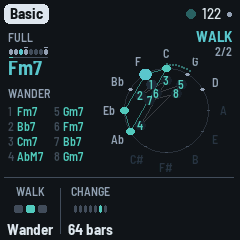
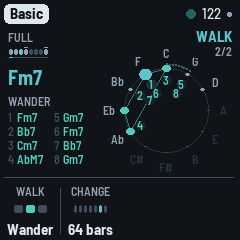
1.4.0: the Walk page lighter (the user's: too crowded): the roots' trail and the slots' joining lines gone, the slots numbered alone; the chord's name lower, clear of the section's bars; the manual, its screenshot

Changed region(s): [[0.0292, 0.2333, 0.35, 0.7], [0.5833, 0.35, 0.7292, 0.525], [0.6125, 0.35, 0.6417, 0.3792]]

diff --git a/firmware/src/app/ui.c b/firmware/src/app/ui.c
@@ -3835,17 +3835,15 @@ static uint32_t where_sig(uint32_t h)            /* (what they show, for a redra
  * save on one comes back on the ripples: ui_screen_ok) */
 static int scr_small_chord(int s) { return s != SCR_RIPPLES; }   /* (the chord small, at the top) */
 
-/* (1.4.0, the user's) the Walk page's picture: the circle of fifths (C at the top, a fifth a step clockwise), the
+/* (1.4.0, the user's) the Walk page's picture (the chord's name under the section's bars, clear of them): the circle of fifths (C at the top, a fifth a step clockwise), the
  * notes named round it, the key's bright, the rest faint; the chord's notes lit and joined (its shape), its root the
- * biggest, white with the kick; the walk's last roots a trail fading behind it; inside, the eight slots as a numbered
- * path (each at its chord's root, joined in their order; the one playing lit in Loop; a gap left out: the chord before
+ * biggest, white with the kick (1.4.0, the user's: no trail of the roots before: too crowded); inside, the eight slots numbered
+ * (each at its chord's root, not joined: the user's, too crowded; the one playing lit in Loop; a gap left out: the chord before
  * it holds); round the outside, the way to the next chord (Change). At the left, out of the circle's way: the chord's
  * name, the walk's character (or Loop and where it is), and the slots in order, the one playing lit */
-#define FQ_N 6
 #define WK_X 166
 #define WK_Y 82
 #define WK_R 42
-static uint8_t fq_root[FQ_N], fq_n;
 static void fq_xy(int pc, int32_t r, int32_t *x, int32_t *y)
 {
     const float a = (float)((pc * 7) % 12) * (6.2831853f / 12.0f) - 1.5707963f;
@@ -3860,8 +3858,6 @@ static void draw_walk(void)
     const float kg = en_playing ? en_drum_glow[0] : 0.0f;
     const uint16_t chc = en_frozen ? K_FROST : K_PAD;
     char nm[16];
-    if (!fq_n || fq_root[(fq_n - 1) % FQ_N] != en_chord_root)   /* (a new root: onto the trail) */
-        fq_root[fq_n % FQ_N] = en_chord_root, fq_n++;
     for (i = 0; i < ns; i++)
         inkey[(proj.par[P_ROOT] + steps[i]) % 12] = 1;
     circle(WK_X, WK_Y, WK_R, mix(K_BG, K_LINE, 9));   /* the circle */
@@ -3891,26 +3887,6 @@ static void draw_walk(void)
             ring[rr]++;
         }
         sr[i] = rr;
-    }
-    {   /* the path: the slots joined in their order (in Loop, round back to the first) */
-        int first = -1, prev = -1;
-        for (i = 0; i < EN_NPROG; i++) {
-            if (sr[i] < 0)
-                continue;
-            if (prev >= 0)
-                line(sx[prev], sy[prev], sx[i], sy[i], mix(K_BG, K_DIM, 5));
-            else
-                first = i;
-            prev = i;
-        }
-        if (loop && first >= 0 && prev != first)
-            line(sx[prev], sy[prev], sx[first], sy[first], mix(K_BG, K_DIM, 3));
-    }
-    for (i = 1; i < FQ_N && i < (int)fq_n; i++) {   /* the trail: the roots before, older dimmer */
-        const int a = (int)(fq_n - 1u - (unsigned)i), b = a + 1;
-        fq_xy(fq_root[a % FQ_N], WK_R, &x0, &y0);
-        fq_xy(fq_root[b % FQ_N], WK_R, &x, &y);
-        line(x0, y0, x, y, mix(K_BG, K_ACC, 10 - 2 * i > 1 ? 10 - 2 * i : 1));
     }
     for (i = 0; i < EN_NPAD; i++) {               /* the chord: its notes in fifths order, joined round */
         const int pc = en_chord[i] % 12;
@@ -3944,25 +3920,25 @@ static void draw_walk(void)
     }
     chord_now(nm);                                /* at the left: the chord, how it moves, the slots in order */
     if (text_w(&FONT_C, nm) <= 92)
-        cv_text(8, 30, &FONT_C, nm, en_frozen ? K_FROST : mix(K_TEXT, K_ACC, 16 - q16(kg * 1.4f)));
+        cv_text(8, 40, &FONT_C, nm, en_frozen ? K_FROST : mix(K_TEXT, K_ACC, 16 - q16(kg * 1.4f)));
     else
-        cv_text(8, 34, &FONT_B, nm, en_frozen ? K_FROST : K_TEXT);
+        cv_text(8, 44, &FONT_B, nm, en_frozen ? K_FROST : K_TEXT);
     if (loop && cnt) {
         char t[12] = "LOOP ";
         t[5] = (char)('1' + (en_prog_pos >= 0 ? en_prog_pos : 0)), t[6] = '/', t[7] = (char)('0' + cnt), t[8] = 0;
-        cv_text(8, 58, &FONT_XS, t, K_DIM);
+        cv_text(8, 66, &FONT_XS, t, K_DIM);
     } else {
         char t[12];
         caps(t, EN_WALK_NAME[(proj.par[P_PMODE] & 3) % EN_NWALK], sizeof t);
-        cv_text(8, 58, &FONT_XS, t, K_DIM);
+        cv_text(8, 66, &FONT_XS, t, K_DIM);
     }
     for (i = 0; i < EN_NPROG; i++) {              /* the slots, two columns of four: their chords, the one playing lit */
-        const int32_t x = 8 + (i >> 2) * 46, y = 76 + (i & 3) * 15;   /* (clear of the notes' names) */
+        const int32_t x = 8 + (i >> 2) * 46, y = 82 + (i & 3) * 14;   /* (clear of the notes' names) */
         const int on = loop && en_playing && i == en_prog_pos;
         char d[2], cn[16];
         d[0] = (char)('1' + i), d[1] = 0;
         if (on)
-            cv_round(x - 2, y + 1, 44, 14, 3, K_PAD);
+            cv_round(x - 2, y + 1, 44, 13, 3, K_PAD);
         cv_text(x, y, &FONT_XS, d, on ? K_BG : K_LINE);
         if (sr[i] >= 0) {
             const char *l = slot_label(i, cn);

diff --git a/docs/MANUAL.md b/docs/MANUAL.md
@@ -347,15 +347,14 @@ away).
 What it shows:
 - **The twelve notes** named round the circle, the key's bright and the others faint.
 - **The chord playing**: its notes lit and joined, so you see its shape; its root the biggest dot, white with each
-  kick. The last few roots leave a fading trail behind it: where the walk has been.
-- **The eight slots** as a numbered path inside the circle: each at its chord's root (a walk's chord in teal, yours
-  in white), joined in their order; in Loop the path closes and the slot playing is lit. A gap is left out (the chord
-  before it holds). Write a slot on the Chords page, or let the walk choose a new one, and it moves to where it lands.
+  kick.
+- **The eight slots**, numbered, inside the circle: each at its chord's root (a walk's chord in teal, yours in
+  white); in Loop the slot playing is lit. A gap is left out (the chord before it holds). Write a slot on the Chords page, or let the walk choose a new one, and it moves to where it lands.
 - **Round the outside**, dots filling up on the way to the next chord (Change).
 - **At the left**: the chord's name, the walk's character (or LOOP and where it is, "2/8"), and the eight slots'
   chords in two columns, the one playing lit.
 
-![The Walk page on Basic: the circle of fifths, Fm7's notes joined, the eight slots as a numbered path inside, the chord's name and the slots' list at the left; WALK Wander, CHANGE 64 bars](img/screen-walk.png "The Walk page")
+![The Walk page on Basic: the circle of fifths, Fm7's notes joined, the eight slots numbered inside, the chord's name and the slots' list at the left; WALK Wander, CHANGE 64 bars](img/screen-walk.png "The Walk page")
 
 **The effects grid** (REC held). After a moment the whole screen shows sixteen effects, four rows of four (the knobs do nothing while it's up);
 the white keys from the lowest play them, each as long as its key is held (even after you let go of
